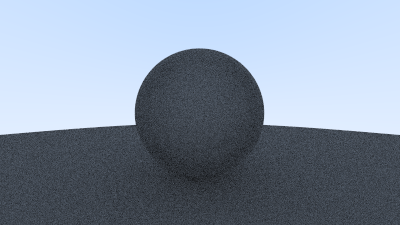
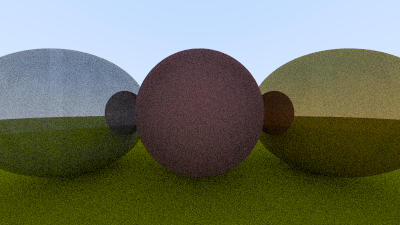
Image 11: Shiny metal

diff --git a/src/rt_py/vec3.py b/src/rt_py/vec3.py
@@ -1,5 +1,6 @@
 from __future__ import annotations
 
+import math
 import random
 
 from .rtweekend import random_double
@@ -29,61 +30,59 @@ class Vec3:
     def __getitem__(self, key: int) -> float:
         return self.e[key]
 
-    def __add__(self, other: Vec3) -> Vec3:
-        cls = self.__class__
-        if not isinstance(other, (int, float, cls)):
-            raise ValueError(f'Cannot add {type(other)} to {type(cls)}')
-
+    def __add__(self, other: int | float | Vec3) -> Vec3:
         if isinstance(other, (int, float)):
             e0 = self.e[0] + other
             e1 = self.e[1] + other
             e2 = self.e[2] + other
-        else:
+        elif isinstance(other, Vec3):
             e0 = self.e[0] + other.e[0]
             e1 = self.e[1] + other.e[1]
             e2 = self.e[2] + other.e[2]
+        else:
+            raise ValueError(f'Cannot add {type(other)} to {type(self)}')
 
-        return cls(e0, e1, e2)
+        return self.__class__(e0, e1, e2)
 
     def __radd__(self, other: Vec3) -> Vec3:
         return self + other
 
-    def __sub__(self, other: Vec3) -> Vec3:
-        cls = self.__class__
-        if not isinstance(other, (int, float, cls)):
-            raise ValueError(f'Cannot add {type(other)} to {type(cls)}')
-
+    def __sub__(self, other: int | float | Vec3) -> Vec3:
         if isinstance(other, (int, float)):
             e0 = self.e[0] - other
             e1 = self.e[1] - other
             e2 = self.e[2] - other
-        else:
+        elif isinstance(other, Vec3):
             e0 = self.e[0] - other.e[0]
             e1 = self.e[1] - other.e[1]
             e2 = self.e[2] - other.e[2]
+        else:
+            raise ValueError(f'Cannot add {type(other)} to {self}')
 
-        return cls(e0, e1, e2)
+        return self.__class__(e0, e1, e2)
 
-    def __mul__(self, other: Vec3) -> Vec3:
-        cls = self.__class__
-        if not isinstance(other, (int, float)):
-            raise ValueError(f'Cannot multiply {type(other)} to {type(cls)}')
+    def __mul__(self, other: int | float | Vec3) -> Vec3:
+        if isinstance(other, (int, float)):
+            e0 = self.e[0] * other
+            e1 = self.e[1] * other
+            e2 = self.e[2] * other
+        elif isinstance(other, Vec3):
+            e0 = self.e[0] * other.e[0]
+            e1 = self.e[1] * other.e[1]
+            e2 = self.e[2] * other.e[2]
+        else:
+            raise ValueError(f'Cannot multiply {type(other)} to {type(self)}')
 
-        return cls(
-            self.e[0] * other,
-            self.e[1] * other,
-            self.e[2] * other,
-        )
+        return self.__class__(e0, e1, e2)
 
     def __rmul__(self, other: Vec3) -> Vec3:
         return self * other
 
     def __truediv__(self, other: float | int) -> Vec3:
-        cls = self.__class__
         if not isinstance(other, (int, float)):
-            raise ValueError(f'Cannot divide {type(other)} to {type(cls)}')
+            raise ValueError(f'Cannot divide {type(other)} to {type(self)}')
 
-        return cls(
+        return self.__class__(
             self.e[0] / other,
             self.e[1] / other,
             self.e[2] / other,
@@ -158,6 +157,18 @@ class Vec3:
             return in_unit_sphere
         else:
             return -in_unit_sphere
+
+    def near_zero(self) -> bool:
+        s = 1e-8
+        return (
+            math.fabs(self.e[0]) < s
+            and math.fabs(self.e[1]) < s
+            and math.fabs(self.e[2]) < s
+        )
+
+    @staticmethod
+    def reflect(v: Vec3, n: Vec3) -> Vec3:
+        return v - 2 * Vec3.dot(v, n) * n
 
 
 Point3 = Vec3

diff --git a/src/rt_py/main.py b/src/rt_py/main.py
@@ -10,6 +10,7 @@ from .hittable_list import HittableList
 from .sphere import Sphere
 from .camera import Camera
 from .ray import Ray
+from .material import Lambertian, Metal
 
 
 def ray_color(r: Ray, world: HittableList, depth: int) -> Color:
@@ -20,8 +21,10 @@ def ray_color(r: Ray, world: HittableList, depth: int) -> Color:
         return Color(0, 0, 0)
 
     if world.hit(r, 0, math.inf, rec):
-        target = rec.p + Vec3.random_in_hemisphere(rec.normal)
-        return 0.5 * ray_color(Ray(rec.p, target - rec.p), world, depth - 1)
+        is_scattered, scaterred, attenuation = rec.material.scatter(r, rec)
+        if is_scattered:
+            return attenuation * ray_color(scaterred, world, depth - 1)
+        return Color(0, 0, 0)
 
     unit_direction = Vec3.unit_vector(r.direction)
     t = 0.5 * (unit_direction.y() + 1.0)
@@ -38,8 +41,16 @@ def run(image_path: str) -> None:
 
     # World
     world = HittableList()
-    world.add(Sphere(Point3(0, 0, -1), 0.5))
-    world.add(Sphere(Point3(0, -100.5, -1), 100))
+
+    material_ground = Lambertian(Color(0.8, 0.8, 0.0))
+    material_center = Lambertian(Color(0.7, 0.3, 0.3))
+    material_left = Metal(Color(0.8, 0.8, 0.8))
+    material_right = Metal(Color(0.8, 0.6, 0.2))
+
+    world.add(Sphere(Point3(0.0, -100.5, -1.0), 100.0, material_ground))
+    world.add(Sphere(Point3(0.0, 0.0, -1.0), 0.5, material_center))
+    world.add(Sphere(Point3(-1.0, 0.0, -1.0), 0.5, material_left))
+    world.add(Sphere(Point3(1.0, 0.0, -1.0), 0.5, material_right))
 
     # Camera
     cam = Camera()

diff --git a/src/rt_py/material.py b/src/rt_py/material.py
@@ -1,0 +1,41 @@
+from abc import ABC, abstractmethod
+from typing import Tuple
+
+
+from .hittable import HitRecord
+from .ray import Ray
+from .vec3 import Color, Vec3
+
+
+class Material(ABC):
+    @abstractmethod
+    def scatter(self, r_in: Ray, rec: HitRecord) -> Tuple[bool, Ray, Color]:
+        ...
+
+
+class Lambertian(Material):
+    def __init__(self, albedo: Color):
+        self.albedo = albedo
+
+    def scatter(self, r_in: Ray, rec: HitRecord) -> Tuple[bool, Ray, Color]:
+        scatter_direction = rec.normal + Vec3.random_unit_vector()
+        if scatter_direction.near_zero():
+            scatter_direction = rec.normal
+
+        scattered = Ray(rec.p, scatter_direction)
+        attenuation = self.albedo
+        return True, scattered, attenuation
+
+
+class Metal:
+    def __init__(self, albedo: Color) -> None:
+        self.albedo = albedo
+
+    def scatter(self, r_in: Ray, rec: HitRecord) -> Tuple[bool, Ray, Color]:
+        reflected = Vec3.reflect(
+            Vec3.unit_vector(r_in.direction),
+            rec.normal,
+        )
+        scattered = Ray(rec.p, reflected)
+        attenuation = self.albedo
+        return Vec3.dot(scattered.direction, rec.normal) > 0, scattered, attenuation

diff --git a/src/rt_py/sphere.py b/src/rt_py/sphere.py
@@ -1,12 +1,14 @@
 from .hittable import Hittable, HitRecord
 from .vec3 import Vec3, Point3
 from .ray import Ray
+from .material import Material
 
 
 class Sphere(Hittable):
-    def __init__(self, center: Point3, radius: float) -> None:
+    def __init__(self, center: Point3, radius: float, material: Material) -> None:
         self.center = center
         self.radius = radius
+        self.material = material
 
     def hit(self, r: Ray, t_min: float, t_max: float, rec: HitRecord) -> bool:
         oc = r.origin - self.center
@@ -30,5 +32,6 @@ class Sphere(Hittable):
         rec.p = r.at(rec.t)
         outward_normal = (rec.p - self.center) / self.radius
         rec.set_face_normal(r, outward_normal)
+        rec.material = self.material
 
         return True

diff --git a/src/rt_py/hittable.py b/src/rt_py/hittable.py
@@ -11,6 +11,7 @@ class HitRecord:
         self.normal = Vec3()
         self.t = 0.0
         self.front_face = False
+        self.material = None
 
     def set_face_normal(self, r: Ray, outward_normal: Vec3) -> None:
         front_face = Vec3.dot(r.direction, outward_normal) < 0

diff --git a/src/rt_py/hittable_list.py b/src/rt_py/hittable_list.py
@@ -27,5 +27,6 @@ class HittableList(Hittable):
                 rec.normal = temp_rec.normal
                 rec.t = temp_rec.t
                 rec.front_face = temp_rec.front_face
+                rec.material = temp_rec.material
 
         return hit_anything
